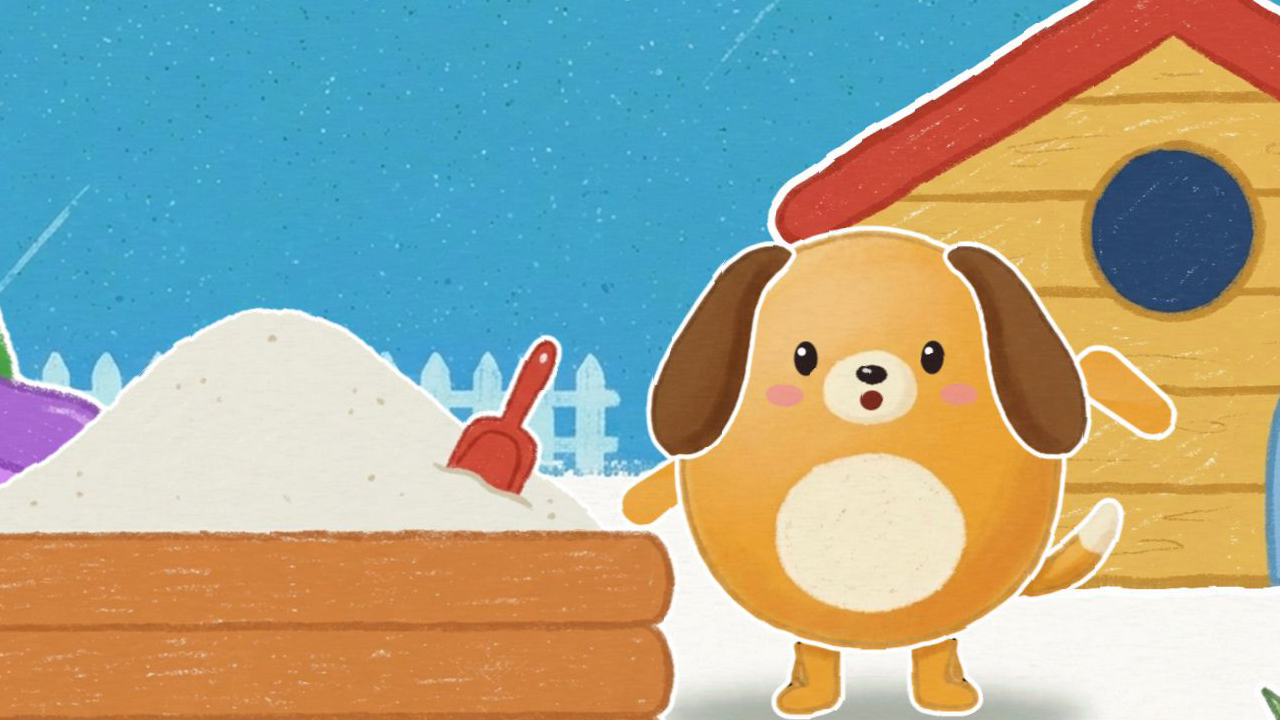
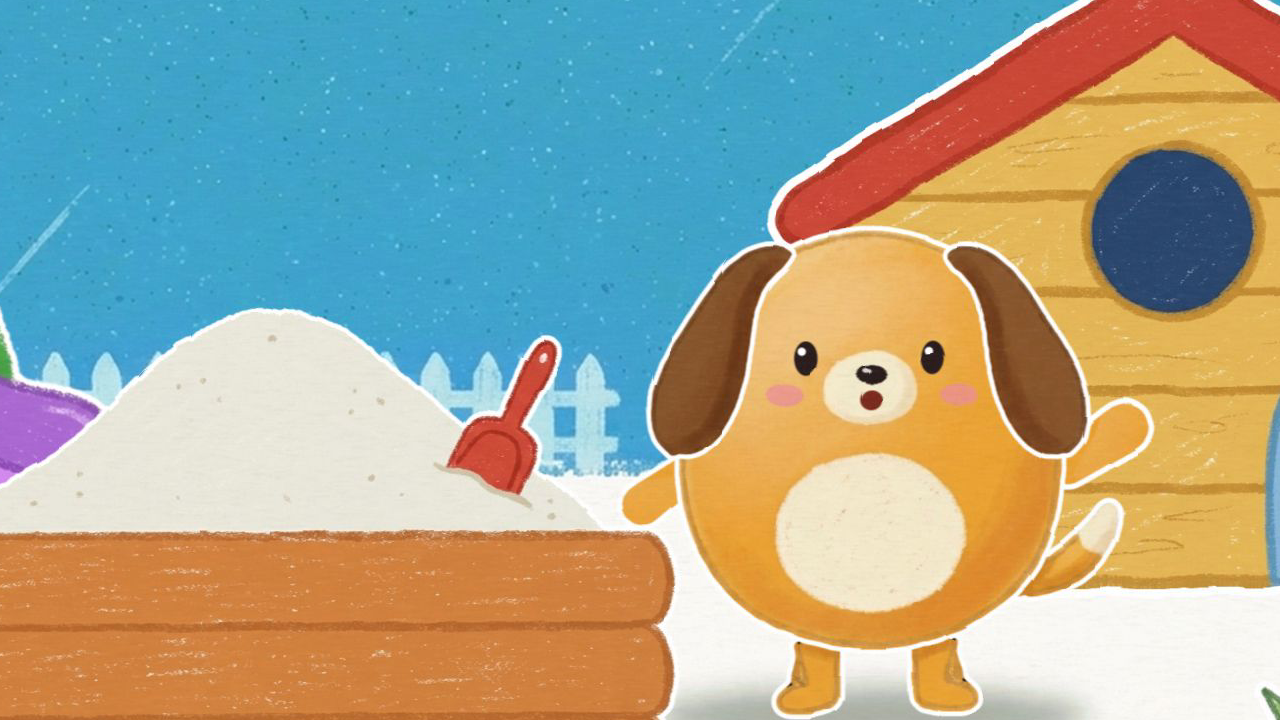
Tittut hunden: vinkande armen sitter kvar vid kroppen
Armen lyftes så långt upp och ut att den svävade fritt. Nu kommer den ut
bakom axeln. Miniatyren gjord om från en ny bild.

Changed region(s): [[0.8125, 0.4583, 0.9375, 0.7028]]

diff --git a/produktion/youtube/tittut/tittut.js b/produktion/youtube/tittut/tittut.js
@@ -668,7 +668,7 @@ async function tittut(g) {
       // samma vink som uttryck.html (38 + 16·sin, plus glad). Lugnt: ett vink i sekunden (Sanna 2026-11-08). Figurer utan
       // F.armMax stannar vid 55°.
       // g.glad (Hugo, Sanna 2026-11-10: vinket syntes knappt): armen lyfts upp och ut förbi kroppens kant medan den vinkar
-      if (vink && g.gang && g.glad) return { 'arm-r': [-upp * (136 + 54 * Math.sin(t * 6)), 70 * upp, -110 * upp, 1 + 0.15 * upp], 'arm-l': 6 * Math.sin(t * 3) };
+      if (vink && g.gang && g.glad) return { 'arm-r': [-upp * (136 + 54 * Math.sin(t * 6)), 20 * upp, -55 * upp, 1 + 0.15 * upp], 'arm-l': 6 * Math.sin(t * 3) };
       if (vink && g.gang) return { 'arm-r': -upp * (136 + 54 * Math.sin(t * 6)), 'arm-l': 6 * Math.sin(t * 3) };
       return { 'arm-r': -upp * (115 + 22 * Math.sin(t * 9)), 'arm-l': 8 * Math.sin(t * 4) };
     }
